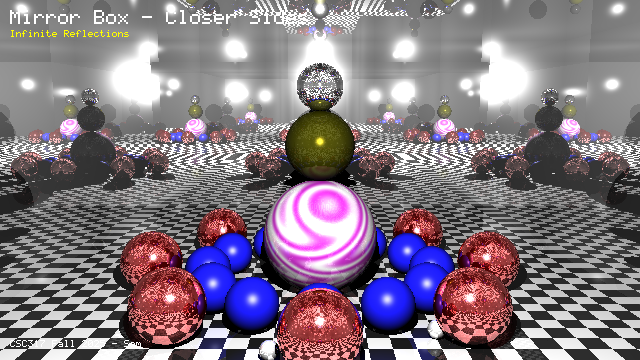
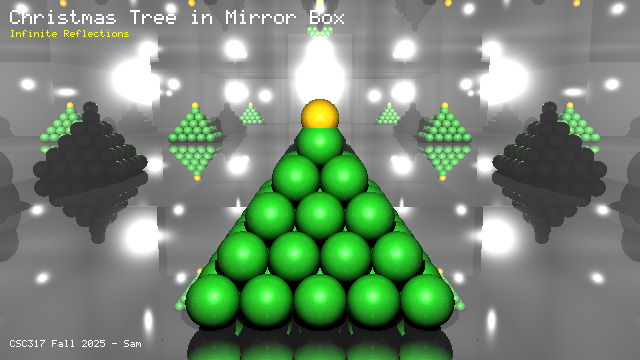
Create Christmas tree pile in mirror box

diff --git a/main.cpp b/main.cpp
@@ -45,20 +45,7 @@ int main(int argc, char * argv[])
   std::vector< std::shared_ptr<Object> > objects;
   std::vector< std::shared_ptr<Light> > lights;
 
-  // 1. Checkerboard Floor
-  auto floor = std::make_shared<Plane>();
-  floor->point = Eigen::Vector3d(0, -1, 0);
-  floor->normal = Eigen::Vector3d(0, 1, 0);
-  floor->material = std::make_shared<Material>();
-  floor->material->ka = Eigen::Vector3d(0.1, 0.1, 0.1);
-  floor->material->kd = Eigen::Vector3d(0.5, 0.5, 0.5); // Will be overridden by checkerboard
-  floor->material->ks = Eigen::Vector3d(0.1, 0.1, 0.1);
-  floor->material->km = Eigen::Vector3d(0.2, 0.2, 0.2); // Slight reflection
-  floor->material->phong_exponent = 10;
-  floor->material->is_checkerboard = true;
-  objects.push_back(floor);
-
-  // 1b. Mirror Box Walls & Ceiling
+  // 1. Mirror Floor
   auto mirror_mat = std::make_shared<Material>();
   mirror_mat->ka = Eigen::Vector3d(0.0, 0.0, 0.0);
   mirror_mat->kd = Eigen::Vector3d(0.1, 0.1, 0.1);
@@ -66,6 +53,13 @@ int main(int argc, char * argv[])
   mirror_mat->km = Eigen::Vector3d(0.9, 0.9, 0.9); // Highly reflective
   mirror_mat->phong_exponent = 1000;
 
+  auto floor = std::make_shared<Plane>();
+  floor->point = Eigen::Vector3d(0, -1, 0);
+  floor->normal = Eigen::Vector3d(0, 1, 0);
+  floor->material = mirror_mat;
+  objects.push_back(floor);
+
+  // 1b. Mirror Box Walls & Ceiling
   auto back_wall = std::make_shared<Plane>();
   back_wall->point = Eigen::Vector3d(0, 0, -12);
   back_wall->normal = Eigen::Vector3d(0, 0, 1);
@@ -96,99 +90,51 @@ int main(int argc, char * argv[])
   ceiling->material = mirror_mat;
   objects.push_back(ceiling);
 
-  // 2. Base Sphere (Marble)
-  auto base_sphere = std::make_shared<Sphere>();
-  base_sphere->center = Eigen::Vector3d(0, 0.5, 0); // y = -1 (floor) + 1.5 (radius)
-  base_sphere->radius = 1.5;
-  base_sphere->material = std::make_shared<Material>();
-  base_sphere->material->ka = Eigen::Vector3d(0.1, 0.0, 0.1);
-  base_sphere->material->kd = Eigen::Vector3d(0.8, 0.2, 0.8); // Purple base
-  base_sphere->material->ks = Eigen::Vector3d(0.2, 0.2, 0.2);
-  base_sphere->material->km = Eigen::Vector3d(0.1, 0.1, 0.1);
-  base_sphere->material->phong_exponent = 50;
-  base_sphere->material->is_noise = true;
-  objects.push_back(base_sphere);
+  // 2. Christmas Tree Pile (Green Spheres)
+  auto green_mat = std::make_shared<Material>();
+  green_mat->ka = Eigen::Vector3d(0.0, 0.1, 0.0);
+  green_mat->kd = Eigen::Vector3d(0.1, 0.6, 0.1); // Green
+  green_mat->ks = Eigen::Vector3d(0.3, 0.3, 0.3);
+  green_mat->km = Eigen::Vector3d(0.1, 0.1, 0.1); // Slight reflection
+  green_mat->phong_exponent = 50;
 
-  // 3. Middle Sphere (Gold)
-  auto middle_sphere = std::make_shared<Sphere>();
-  middle_sphere->center = Eigen::Vector3d(0, 2.9, 0); // y = 0.5 (base center) + 1.5 (base radius) + 0.9 (radius)
-  middle_sphere->radius = 0.9;
-  middle_sphere->material = std::make_shared<Material>();
-  middle_sphere->material->ka = Eigen::Vector3d(0.1, 0.1, 0.0);
-  middle_sphere->material->kd = Eigen::Vector3d(0.2, 0.2, 0.0);
-  middle_sphere->material->ks = Eigen::Vector3d(0.8, 0.7, 0.2); // Gold specular
-  middle_sphere->material->km = Eigen::Vector3d(0.1, 0.1, 0.1);
-  middle_sphere->material->phong_exponent = 200;
-  objects.push_back(middle_sphere);
+  double r = 0.6;
+  int levels = 5;
+  double y_start = -1.0 + r; // Floor is at -1.0
 
-  // 4. Top Sphere (Mirror)
-  auto top_sphere = std::make_shared<Sphere>();
-  top_sphere->center = Eigen::Vector3d(0, 4.4, 0); // y = 2.9 (mid center) + 0.9 (mid radius) + 0.6 (radius)
-  top_sphere->radius = 0.6;
-  top_sphere->material = std::make_shared<Material>();
-  top_sphere->material->ka = Eigen::Vector3d(0.0, 0.0, 0.0);
-  top_sphere->material->kd = Eigen::Vector3d(0.1, 0.1, 0.1);
-  top_sphere->material->ks = Eigen::Vector3d(0.8, 0.8, 0.8);
-  top_sphere->material->km = Eigen::Vector3d(0.9, 0.9, 0.9); // Highly reflective
-  top_sphere->material->phong_exponent = 1000;
-  objects.push_back(top_sphere);
-
-  // 6. Ring of larger red spheres
-  int num_ring_spheres = 8;
-  double ring_radius = 4.5;
-  for(int i = 0; i < num_ring_spheres; ++i) {
-      double angle = 2.0 * 3.14159 * i / num_ring_spheres;
-      auto ring_sphere = std::make_shared<Sphere>();
-      // Floor is at -1.0. Radius is 0.8. Center y should be -0.2.
-      ring_sphere->center = Eigen::Vector3d(ring_radius * cos(angle), -0.2, ring_radius * sin(angle)); 
-      ring_sphere->radius = 0.8;
-      ring_sphere->material = std::make_shared<Material>();
-      ring_sphere->material->ka = Eigen::Vector3d(0.1, 0.0, 0.0);
-      ring_sphere->material->kd = Eigen::Vector3d(0.2, 0.0, 0.0); // Darker red for metallic look
-      ring_sphere->material->ks = Eigen::Vector3d(0.9, 0.9, 0.9); // Bright specular
-      ring_sphere->material->km = Eigen::Vector3d(0.8, 0.5, 0.5); // Strong reddish reflection
-      ring_sphere->material->phong_exponent = 200;
-      objects.push_back(ring_sphere);
+  for (int l = 0; l < levels; ++l) {
+      int side = levels - l; // 5, 4, 3, 2, 1
+      double y = y_start + l * (r * 1.4); // Stack height (slightly overlapped)
+      double offset = (side - 1) * r; // Center offset
+      
+      for (int x = 0; x < side; ++x) {
+          for (int z = 0; z < side; ++z) {
+              auto sphere = std::make_shared<Sphere>();
+              sphere->radius = r;
+              sphere->center = Eigen::Vector3d(
+                  (x * 2 * r) - offset,
+                  y,
+                  (z * 2 * r) - offset
+              );
+              sphere->material = green_mat;
+              objects.push_back(sphere);
+          }
+      }
   }
 
-  // 7. Scattered Metallic Pebbles
-  std::vector<Eigen::Vector3d> pebble_pos = {
-      Eigen::Vector3d(-3.5, -0.8, 2.0),
-      Eigen::Vector3d(3.5, -0.8, -1.0),
-      Eigen::Vector3d(-1.0, -0.8, 4.0),
-      Eigen::Vector3d(2.5, -0.8, 3.0)
-  };
-  
-  for(const auto& pos : pebble_pos) {
-      auto pebble = std::make_shared<Sphere>();
-      pebble->center = pos;
-      pebble->radius = 0.2;
-      pebble->material = std::make_shared<Material>();
-      pebble->material->ka = Eigen::Vector3d(0.1, 0.1, 0.1);
-      pebble->material->kd = Eigen::Vector3d(0.7, 0.7, 0.7); // Silver
-      pebble->material->ks = Eigen::Vector3d(0.9, 0.9, 0.9);
-      pebble->material->km = Eigen::Vector3d(0.5, 0.5, 0.5);
-      pebble->material->phong_exponent = 100;
-      objects.push_back(pebble);
-  }
+  // 3. Star on Top (Gold Sphere)
+  auto gold_mat = std::make_shared<Material>();
+  gold_mat->ka = Eigen::Vector3d(0.1, 0.1, 0.0);
+  gold_mat->kd = Eigen::Vector3d(0.8, 0.6, 0.0); // Gold
+  gold_mat->ks = Eigen::Vector3d(0.9, 0.9, 0.5);
+  gold_mat->km = Eigen::Vector3d(0.2, 0.2, 0.2);
+  gold_mat->phong_exponent = 200;
 
-  // 8. Inner Ring of Blue Spheres (Non-reflective)
-  int num_blue_spheres = 12;
-  double blue_ring_radius = 3.0;
-  for(int i = 0; i < num_blue_spheres; ++i) {
-      double angle = 2.0 * 3.14159 * i / num_blue_spheres;
-      auto blue_sphere = std::make_shared<Sphere>();
-      // Floor is at -1.0. Radius is 0.6. Center y should be -0.4.
-      blue_sphere->center = Eigen::Vector3d(blue_ring_radius * cos(angle), -0.4, blue_ring_radius * sin(angle)); 
-      blue_sphere->radius = 0.6;
-      blue_sphere->material = std::make_shared<Material>();
-      blue_sphere->material->ka = Eigen::Vector3d(0.0, 0.0, 0.1);
-      blue_sphere->material->kd = Eigen::Vector3d(0.1, 0.1, 0.9); // Blue
-      blue_sphere->material->ks = Eigen::Vector3d(0.5, 0.5, 0.5); // Moderate specular
-      blue_sphere->material->km = Eigen::Vector3d(0.0, 0.0, 0.0); // No reflection
-      blue_sphere->material->phong_exponent = 50;
-      objects.push_back(blue_sphere);
-  }
+  auto star = std::make_shared<Sphere>();
+  star->radius = 0.5;
+  star->center = Eigen::Vector3d(0, y_start + levels * (r * 1.4) - 0.2, 0);
+  star->material = gold_mat;
+  objects.push_back(star);
 
   // Lights
   auto point_light = std::make_shared<PointLight>();
@@ -231,7 +177,7 @@ int main(int argc, char * argv[])
   // Add overlay text
   std::vector<unsigned char> white = {255, 255, 255};
   std::vector<unsigned char> yellow = {255, 255, 0};
-  draw_text(rgb_image, width, height, "Mirror Box - Closer Sides", 10, 10, white, 2);
+  draw_text(rgb_image, width, height, "Christmas Tree in Mirror Box", 10, 10, white, 2);
   draw_text(rgb_image, width, height, "Infinite Reflections", 10, 30, yellow, 1);
   draw_text(rgb_image, width, height, "CSC317 Fall 2025 - Sam", 10, height - 20, white, 1);
 
